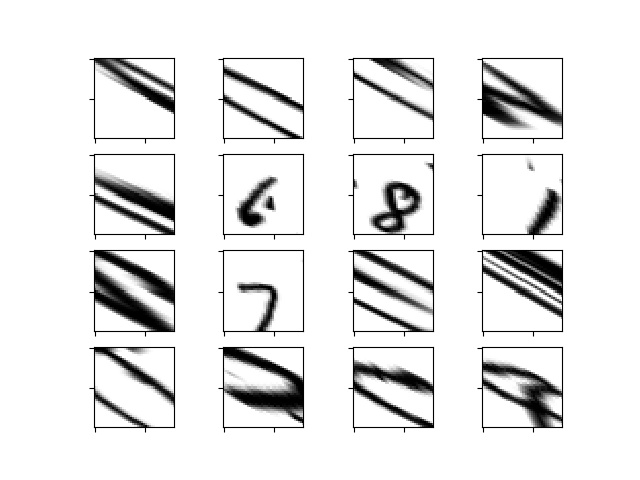
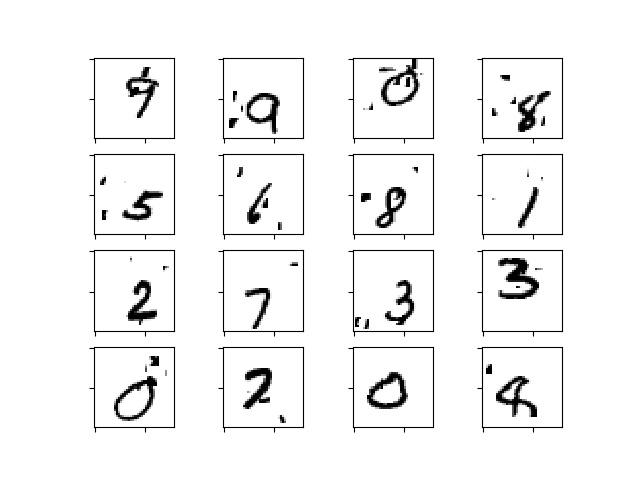
Implement callback

diff --git a/utils.py b/utils.py
@@ -4,13 +4,27 @@ import imageio
 import glob
 import os
 
+import tensorflow as tf
+
+
+class ImageCallback(tf.keras.callbacks.Callback):
+
+  def __init__(self, example_imgs):
+    # super(ImageCallback, self).__init__()
+    self.example_imgs = example_imgs
+
+  def on_epoch_end(self, epoch, logs=None):
+    if epoch % 10 == 0:
+      save_example_imgs(self.example_imgs, epoch)
+
 
 def imshow(img):
   """Show Numpy array image ranged (-1, 1)"""
   out = img.copy()
   out = (out + 1.0) / 2.0
-  plt.imshow(out[0, :, :, 0]) # Remove batch, color dimension
+  plt.imshow(out[0, :, :, 0])  # Remove batch, color dimension
   plt.show()
+
 
 def save_example_imgs(img, epoch):
   out = img.copy()
@@ -30,7 +44,7 @@ def save_example_imgs(img, epoch):
       axarr[i, j].set_xticklabels([])
       # plt.subplot(num_row, num_col, i * num_col + j + 1)
       # plt.imshow(img[i * num_row + j, :, :, 0], cmap='binary')
-  
+
   if not os.path.isdir('samples'):
     os.mkdir('samples')
   plt.savefig('samples/epoch{}.jpg'.format(epoch))

diff --git a/cluttered_mnist.py b/cluttered_mnist.py
@@ -11,10 +11,8 @@ from absl import flags
 
 from spatial_transformer import transformer
 from transformer import Transformer
-from tf_utils import dense_to_one_hot
-from utils import imshow
-from utils import save_example_imgs
 from utils import create_gif
+from utils import ImageCallback
 from flags import define_flags
 
 
@@ -30,6 +28,8 @@ def run(flags_obj):
   y_test = mnist_cluttered['y_test']
 
   X_train = np.reshape(X_train, (-1, 40, 40, 1))
+  X_valid = np.reshape(X_valid, (-1, 40, 40, 1))
+
   BUFFER_SIZE = 10000
   BATCH_SIZE = 256
   train_ds = tf.data.Dataset.from_tensor_slices(
@@ -80,10 +80,9 @@ def run(flags_obj):
       train_ds,
       epochs=EPOCHS,
       steps_per_epoch=STEPS_PER_EPOCH,
-  )
-
-  # save_example_imgs(example_img_transformed, epoch_i)
-  # create_gif()
+      callbacks=[ImageCallback(X_train[:16])])
+  
+  create_gif()
 
 
 def main(_):
